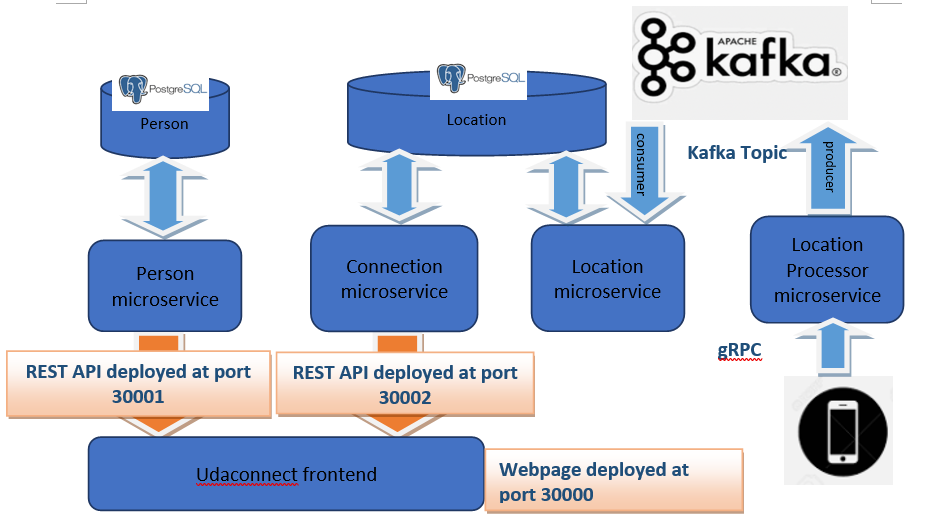
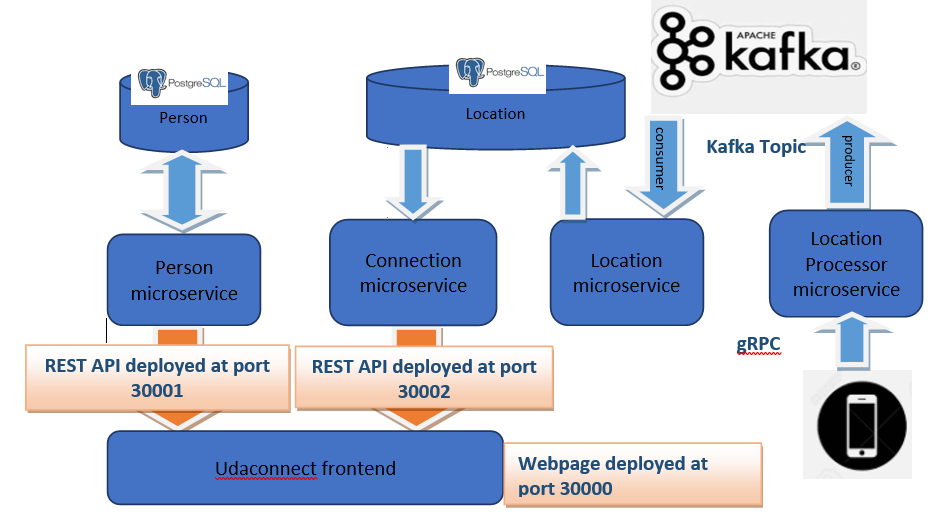
Edit architecture design on direction and while true loop for kafka consumer

Changed region(s): [[0.0, 0.0, 1.0, 0.9961], [0.1875, 0.8716, 0.4375, 0.9339]]

diff --git a/modules/location_microservice/location_kafka_service.py b/modules/location_microservice/location_kafka_service.py
@@ -37,8 +37,8 @@ def save_in_db(location):
     db_cursor.close()
     db_conn.close()
 
-
-for location in consumer:
-    message = location.value.decode('utf-8')
-    location_message = json.loads(message)
-    save_in_db(location_message)
+while True:
+    for location in consumer:
+        message = location.value.decode('utf-8')
+        location_message = json.loads(message)
+        save_in_db(location_message)
